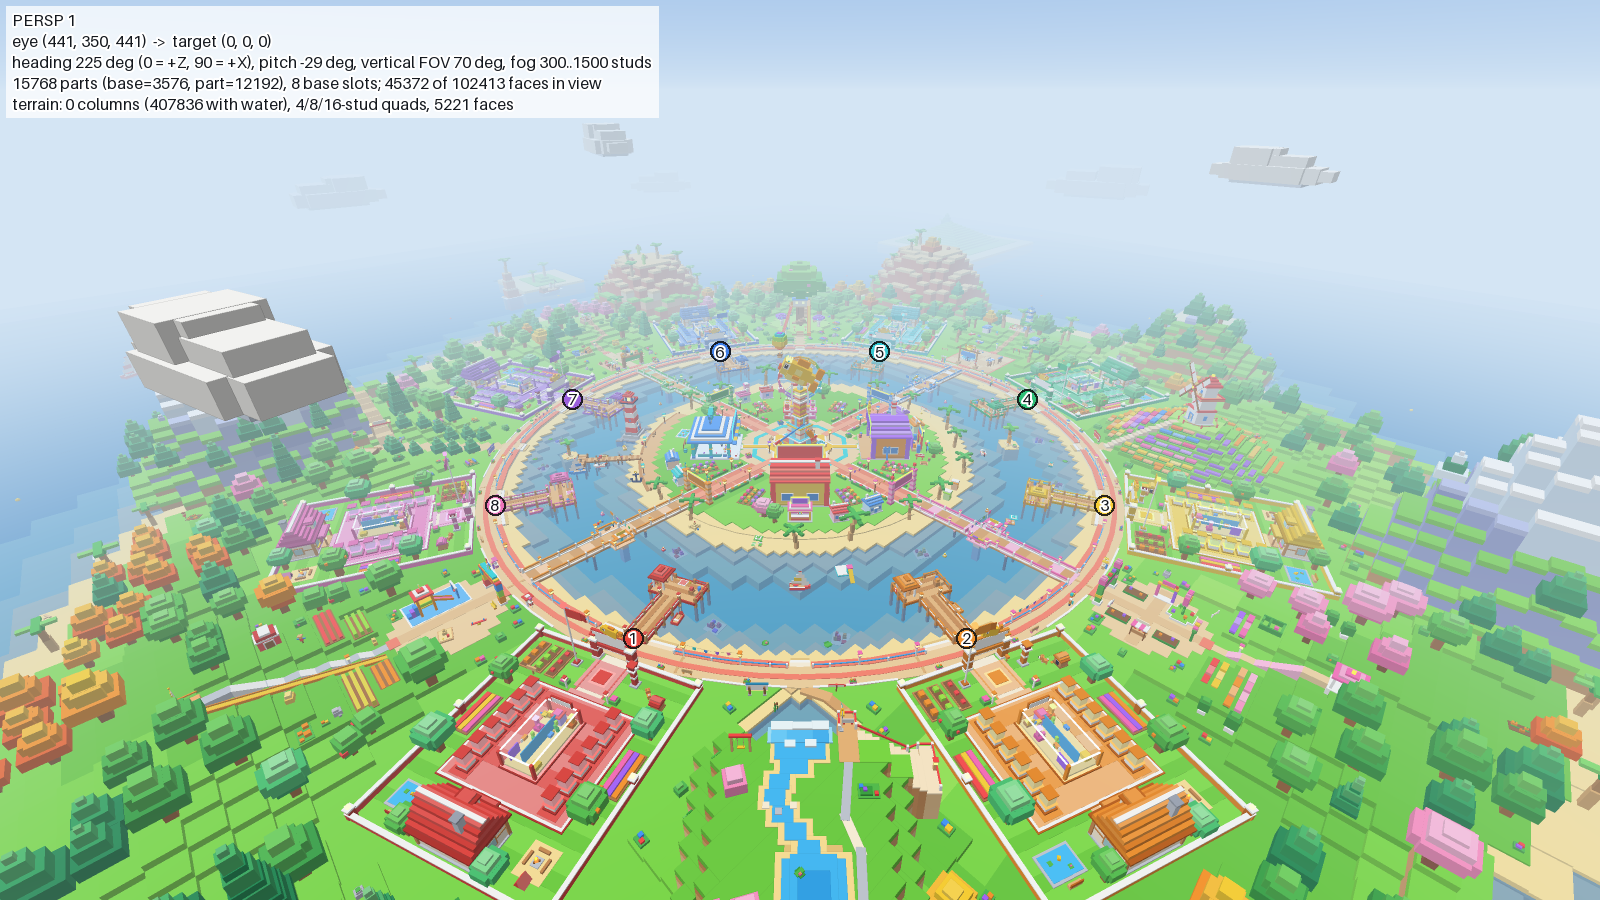
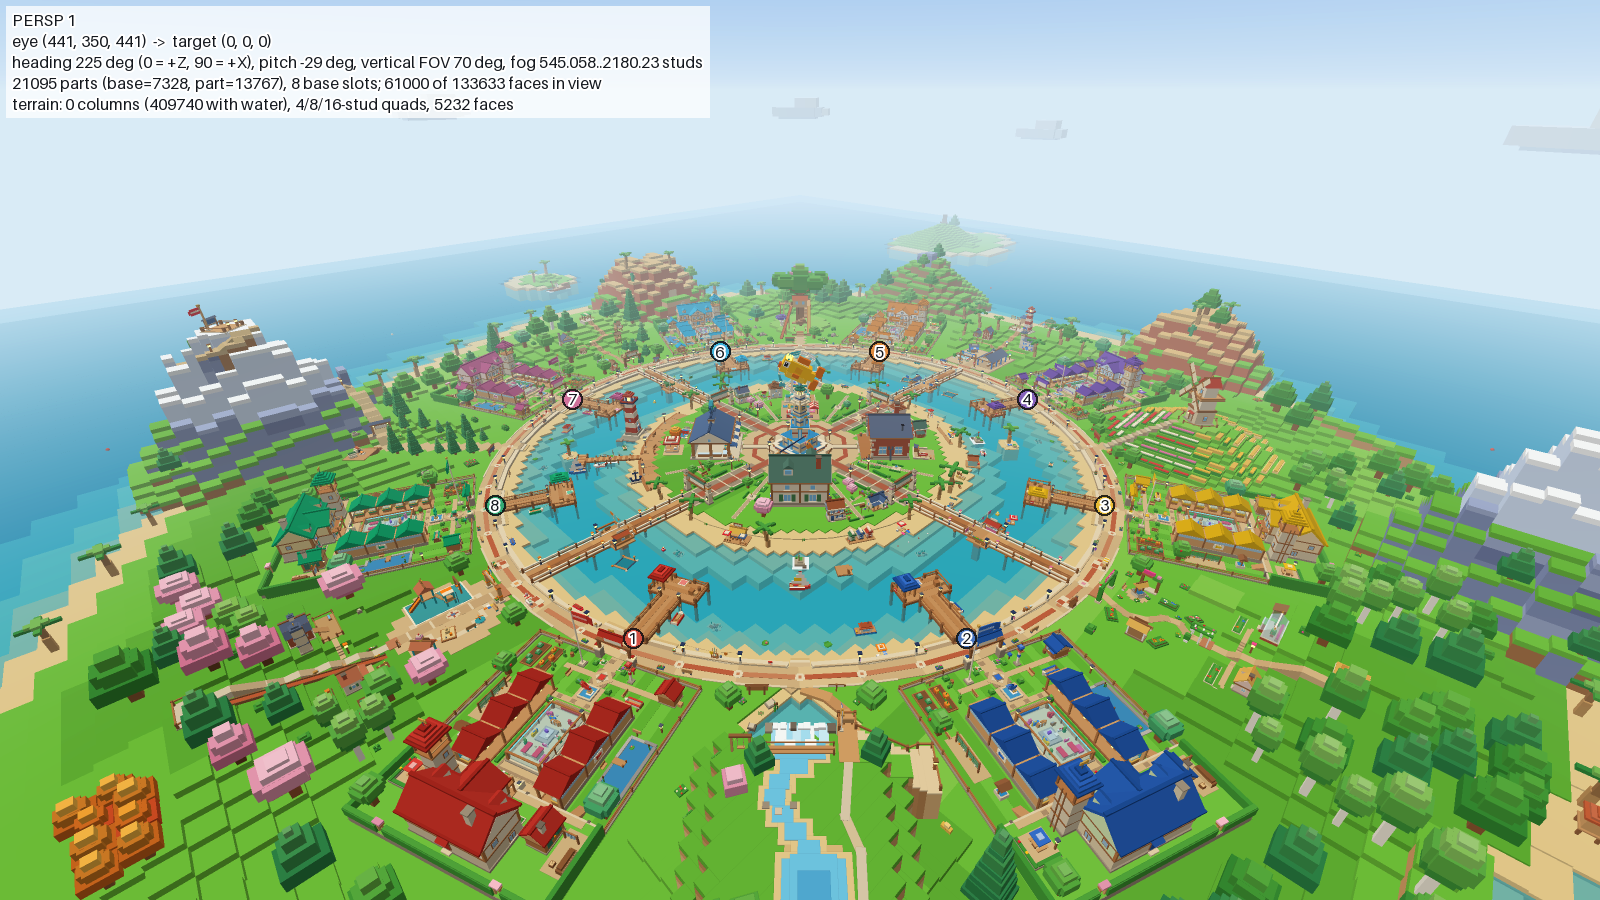
README and previews for the v4 map
Claude-Session: https://claude.ai/code/session_01RDoTGWXVN24cmvF1CFbLMH

diff --git a/README.md b/README.md
@@ -12,17 +12,23 @@ Rojo не нужен. Папки `src/` и `tools/` — исходники и с
 
 ## Мир «Остров Рыбаков»
 
-Яркий воксельный атолл в стиле топовых симуляторов (Steal a Brainrot, Grow a Garden): вся земля собрана из
+Воксельный атолл в стиле топовых симуляторов (Steal a Brainrot, Grow a Garden): вся земля собрана из
 блоков — травяные террасы, песчаные пляжи, скалы, снежные вершины; вода — бирюзовая вода Terrain.
+Палитра — сочная, но гармоничная (натуральные материалы + небольшие яркие акценты: цветы, флаги, навесы,
+крыши в цвете базы); все цвета карты собраны в `tools/builder/Palette.luau`.
 
-- **Лагуна** (радиус ~300 studs) с **островом-деревней** в центре (радиус 150): площадь с фонтаном и маяком,
-  большие магазины «Удочки», «Рыбный рынок», «Мастерская», колесо обозрения, ларьки, пальмы, гавань.
+- **Лагуна** (радиус ~300 studs) с **островом-деревней** в центре (радиус 150): площадь с башней «Золотая рыбка»,
+  фахверковые магазины «Удочки», «Рыбный рынок», «Мастерская», домики рыбаков с двориками, ярмарка
+  (колесо обозрения, карусель), пляж с кафе и купальнями, гавань с маяком.
 - **4 моста** на остров и **прогулочное кольцо** вдоль лагуны — по нему можно добежать до любой базы.
-- **8 больших баз** (участок 136 × 150 + свой пирс 92 studs): аквариум с 12 витринами для рыбы, дом, собака у будки,
-  сирена, флаг с именем владельца, ворота с табличкой, огород, костёр. Цвет базы — на стенах, крыше, флаге.
+- **8 больших баз** (участок 136 × 150 + свой пирс 92 studs): дом рыбака с башней-смотровой, аквариум и
+  12 витрин под тремя павильонами с каждой стороны, фонтан с рыбой, пруд с мальками, огород, коптильня,
+  сарай со снастями, сирена, флаг с именем владельца, ворота с табличкой. Цвет базы — на крышах, флаге и
+  вывесках; тон стен дома у каждой базы свой. Собака невидима, пока игрок не купит её (Этап 4).
 - **Холмы с лесами** и достопримечательностями: водопад со скалы с лестницей на смотровую площадку, мельница на
-  ступенчатом холме, гигантское дерево с домиком, снежная вершина (+ ещё две горы), 4 тематические площади у мостов.
-- **Океан до горизонта**: островки, затонувший корабль, кит, лодки, воксельные облака.
+  ступенчатом холме с цветочными террасами, гигантское дерево с домиком, снежная вершина с тропой (+ ещё пять гор),
+  4 района у мостов (рыбацкий ряд, ферма, сады с оранжереей, лесной лагерь) со своими площадями.
+- **Океан до горизонта**: островки с маячком, руинами и хижиной рыбака, затонувший корабль, лодки, облака.
 
 ## Что внутри Place1.rbxl
 
@@ -36,11 +42,11 @@ Workspace
     Bridges, Promenade     мосты на остров и прогулочное кольцо вдоль лагуны
     Gateways, Landmarks    площади у мостов; водопад, мельница, гигантское дерево, вершины
     Nature                 леса, кусты, цветы, камни
-    Lagoon, Ocean, Sky     лодки и буйки; островки, корабль, кит; облака
+    Lagoon, Ocean, Sky     лодки, буйки, плавучие домики; островки, корабль; облака
     Boundaries             невидимая стена в океане
   Bases                    (появляется в игре) Base_1 … Base_8 — клоны шаблона
 ServerStorage
-  BaseTemplate             ОДНА база-шаблон: аквариум + 12 витрин, дом, собака, сирена, флаг, ворота, пирс
+  BaseTemplate             ОДНА база-шаблон: аквариум + 12 витрин, дом, собака (скрыта), сирена, флаг, ворота, пирс
 ReplicatedStorage
   Shared
     Config                 ← ЧИСЛА БАЛАНСА: BaseConfig, UIConfig (дальше Fish/Economy/Theft/Upgrades)
